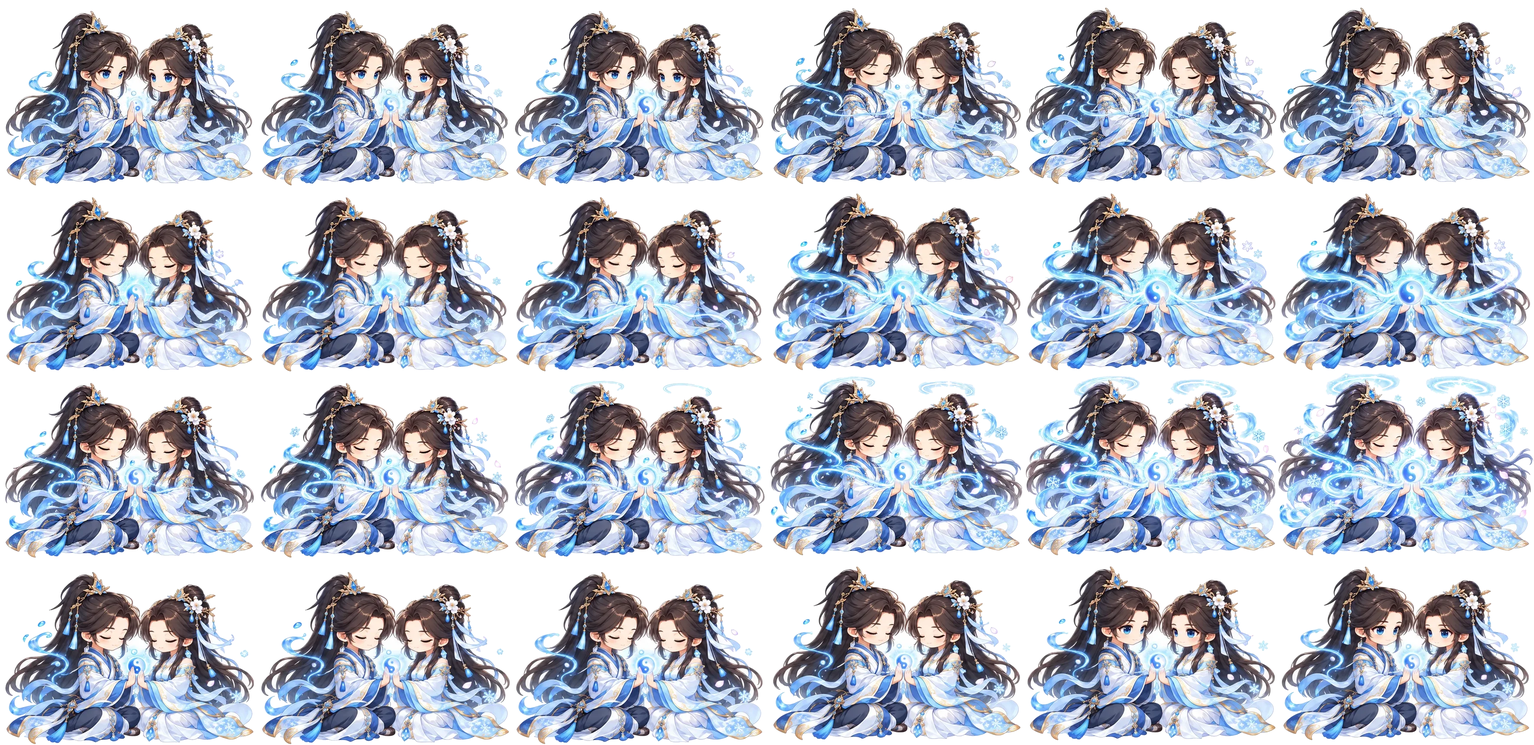
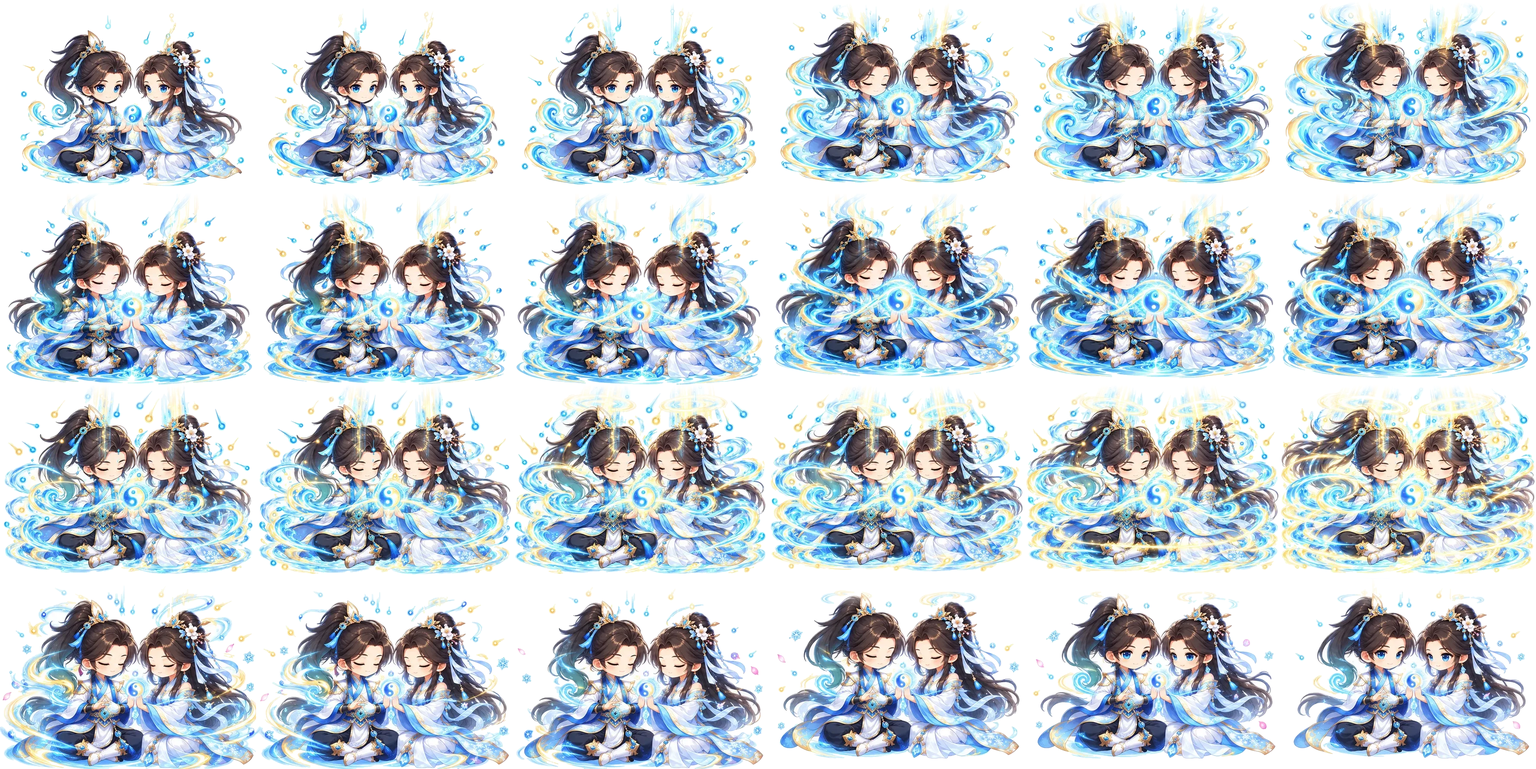
Home: dual cultivation with heaven-and-earth qi painted into the scene

diff --git a/src/ui/CultivatingCharacter.tsx b/src/ui/CultivatingCharacter.tsx
@@ -1,5 +1,5 @@
 import { getDualCultivationSprite, heroCultivationSprite, spriteLoopMs } from "../features/companion/domain/companionSprites";
-import { DUAL_QI, QI_BLEED, QiBreathEffect, SOLO_QI } from "./QiBreathEffect";
+import { QI_BLEED, QiBreathEffect, SOLO_QI } from "./QiBreathEffect";
 import { SpriteAnimation } from "./SpriteAnimation";
 
 /** One breath of the solo meditation: two passes of the 32-frame loop, slow enough to read. */
@@ -11,9 +11,12 @@ export function CultivatingCharacter({ characterName, companionId, companionName
   const bleed = `${-QI_BLEED * 100}%`;
   return (
     <div className={dual ? "cultivating-stage cultivating-stage--dual" : "cultivating-stage"}>
-      <div className="qi-breath-box" style={{ inset: bleed }}>
-        <QiBreathEffect look={dual ? DUAL_QI : SOLO_QI} periodMs={dual ? spriteLoopMs(dual) : SOLO_BREATH_MS} />
-      </div>
+      {/* The shared scene has its heaven-and-earth qi painted into the frames; only the solo picture gets the drawn effect. */}
+      {!dual && (
+        <div className="qi-breath-box" style={{ inset: bleed }}>
+          <QiBreathEffect look={SOLO_QI} periodMs={SOLO_BREATH_MS} />
+        </div>
+      )}
       {dual
         ? <SpriteAnimation sprite={dual} className="cultivating-character cultivating-character--dual" label={`${characterName}與${companionName ?? "道侶"}雙修，一同吐納靈氣`} />
         : <SpriteAnimation sprite={heroCultivationSprite} className="cultivating-character" label={`${characterName}盤坐修練`} />}

diff --git a/src/styles.css b/src/styles.css
@@ -288,7 +288,7 @@ canvas {
 .cultivating-view-toggle button[aria-pressed="true"] { background: linear-gradient(180deg, #ffe39a, #d99a3c); color: #3a2208; font-weight: 700; }
 .cultivating-view-toggle button:focus-visible { outline: 2px solid #fff3c4; outline-offset: 2px; }
 /* Two people side by side: wider and landscape. */
-.cultivating-character--dual { aspect-ratio: 590 / 430; }
+.cultivating-character--dual { aspect-ratio: 591 / 444; }
 
 .cultivation-status { padding: 15px; border: 1px solid rgba(183, 225, 251, 0.48); border-radius: 15px; background: rgba(7, 35, 55, 0.77); box-shadow: inset 0 0 28px rgba(110, 212, 255, 0.1); color: #eefaff; text-align: left; }
 .cultivation-status__header { display: flex; justify-content: space-between; gap: 14px; align-items: end; border-bottom: 1px solid rgba(184, 222, 242, 0.26); padding-bottom: 9px; }

diff --git a/src/ui/QiBreathEffect.tsx b/src/ui/QiBreathEffect.tsx
@@ -15,7 +15,6 @@ export interface QiBreathLook {
 }
 
 export const SOLO_QI: QiBreathLook = { core: { x: 0.5, y: 0.62 }, halos: [{ x: 0.5, y: 0.1 }], reach: 0.5, qi: "112, 208, 255", accent: "220, 246, 255", gold: "255, 217, 138" };
-export const DUAL_QI: QiBreathLook = { core: { x: 0.5, y: 0.5 }, halos: [{ x: 0.31, y: 0.1 }, { x: 0.69, y: 0.1 }], reach: 0.5, qi: "112, 208, 255", accent: "226, 244, 255", gold: "255, 224, 160" };
 
 /** The canvas reaches this share of the picture's size beyond each edge, so qi can stream in from outside it. */
 export const QI_BLEED = 0.16;

diff --git a/src/features/companion/domain/companionSprites.ts b/src/features/companion/domain/companionSprites.ts
@@ -125,8 +125,8 @@ const dualCultivationSprites: Readonly<Record<string, CompanionSprite>> = {
     sheet: "/assets/companions/dual_lin_tingxue-sheet.webp",
     poster: "/assets/companions/dual_lin_tingxue-poster.webp",
     cols: 6,
-    cellWidth: 590,
-    cellHeight: 430,
+    cellWidth: 591,
+    cellHeight: 444,
     steps: range(24).map(cell => ({ cell, holdMs: cell >= 14 && cell <= 17 ? 230 : 200 })),
     blendMs: 60,
   },
